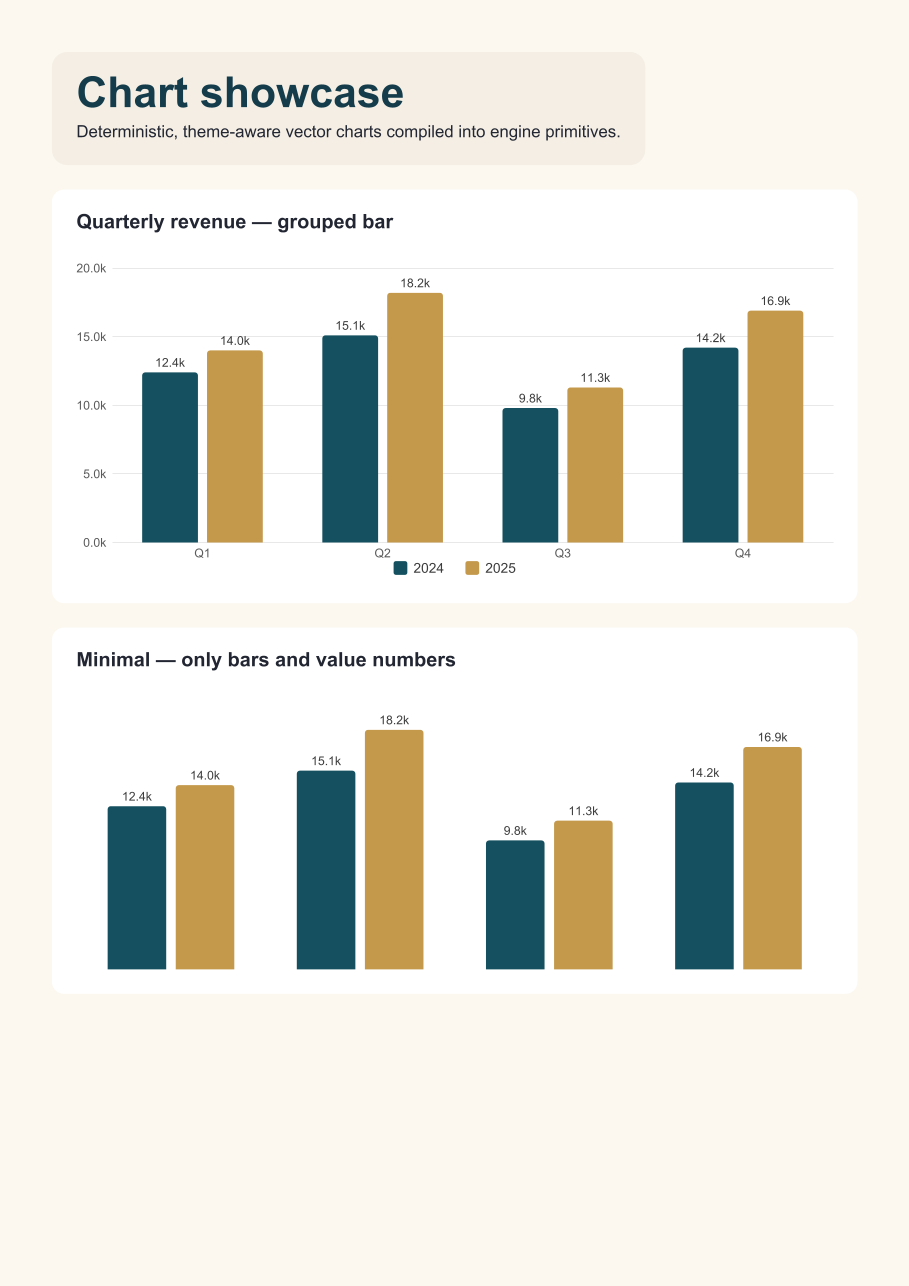
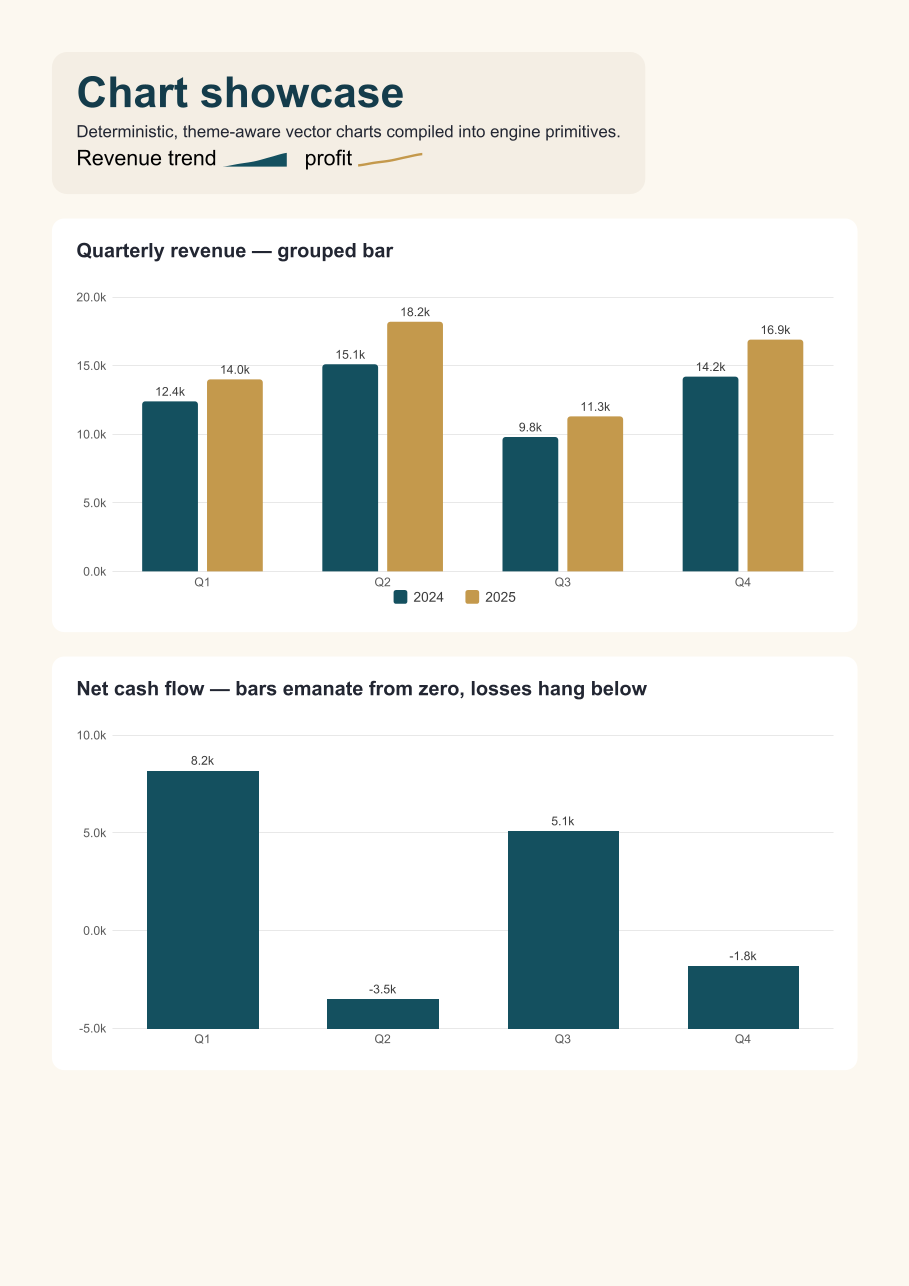
fix(charts): grouped bars emanate from the zero baseline
Grouped (non-stacked) bars measured their height from the axis nice-floor,
so on an axis that crossed zero a negative value rendered as a short upward
column anchored at the floor — visually indistinguishable from a small
positive — and positive bars overshot below zero.

BarChartLayout now anchors both orientations to the zero baseline (clamped
into the visible range via the new baselineValue helper): positive bars grow
away from zero, negatives hang back across it, and value labels sit past the
bar's far end. When zero is off-scale — an explicit non-zero valueAxis().min()
or baselineAtZero(false) over a range that excludes zero — the baseline clamps
to the nearest visible bound, so a deliberately zoomed axis still anchors its
bars at the plot floor. Charts with positive data on a zero-based axis are
byte-identical.

Tests: ChartLayoutResolverTest rewrites the negative grouped case to assert
the positive and negative bars meet at zero with heights proportional to
|value|, and adds horizontal and positive-min-clamp cases; ChartShowcaseExample
gains a mixed +/- net-cash-flow card. ./mvnw test -pl . green (1382).

diff --git a/src/main/java/com/demcha/compose/document/chart/BarChartLayout.java b/src/main/java/com/demcha/compose/document/chart/BarChartLayout.java
@@ -14,6 +14,15 @@ import static com.demcha.compose.document.chart.ChartLayoutSupport.*;
  * Geometry for vertical and horizontal bar charts, grouped or stacked, with
  * per-bar value labels and stacked-total labels.
  *
+ * <p>Grouped bars emanate from the zero baseline — positive values grow away
+ * from zero, negative values hang back across it — matching the standard
+ * bar-chart convention. When zero falls outside the visible range (an explicit
+ * non-zero {@code valueAxis().min(...)} or {@code baselineAtZero(false)} over a
+ * range that does not include zero), the baseline clamps to the nearest visible
+ * bound, so a deliberately zoomed axis still anchors its bars at the plot edge.
+ * Stacked bars always sum upward from a zero floor (see
+ * {@link ChartLayoutSupport#computeFrame}).
+ *
  * @author Artem Demchyshyn
  * @since 1.8.0
  */
@@ -100,12 +109,21 @@ final class BarChartLayout {
             } else {
                 double barW = groupW / sCount;
                 double innerBarW = Math.max(0.5, barW * INNER_BAR_RATIO);
+                // Grouped bars emanate from the zero baseline: positive values
+                // grow up, negative values hang down. When zero is off-scale
+                // (an explicit positive min, or baselineAtZero(false) over a
+                // non-zero range), the baseline clamps to the nearest visible
+                // bound, so a zoomed axis still anchors bars at the plot floor.
+                double baseValue = baselineValue(f.scale());
+                double baseY = f.yForValue(baseValue);
                 for (int s = 0; s < sCount; s++) {
                     Double v = data.series().get(s).values().get(c);
                     if (v == null) {
                         continue;
                     }
-                    double h = f.scale().fractionOf(v) * f.plotHeight();
+                    double valueY = f.yForValue(v);
+                    double yBottom = Math.min(baseY, valueY);
+                    double h = Math.abs(valueY - baseY);
                     if (h < MIN_BAR_HEIGHT) {
                         continue;
                     }
@@ -115,12 +133,16 @@ final class BarChartLayout {
                             new ShapeNode("bar_c" + c + "_s" + s, innerBarW, h, null, null,
                                     barRadius, null, null, DocumentInsets.zero(), DocumentInsets.zero(),
                                     null, paint),
-                            bx, f.plotBottomY(), innerBarW, h));
+                            bx, yBottom, innerBarW, h));
                     if (bar.valueLabels() == ValueLabelMode.OUTSIDE) {
                         String text = bar.valueAxis().format().format(v);
                         double labelW = Math.max(innerBarW, metrics.width(valueStyle, text) + 2.0);
+                        // Label above a positive bar's top, below a negative bar's bottom.
+                        double labelBottomY = v >= baseValue
+                                ? yBottom + h + labelGap
+                                : yBottom - labelGap - f.valueLineH();
                         emitChipLabel(out, "value_c" + c + "_s" + s, text, valueStyle, null,
-                                bx + innerBarW / 2.0, f.plotBottomY() + h + labelGap,
+                                bx + innerBarW / 2.0, labelBottomY,
                                 labelW, f.valueLineH());
                     }
                 }
@@ -287,12 +309,18 @@ final class BarChartLayout {
             } else {
                 double barH = groupH / sCount;
                 double innerBarH = Math.max(0.5, barH * INNER_BAR_RATIO);
+                // Bars emanate from the zero baseline (clamped to the visible
+                // range): positive values extend right, negative values left.
+                double baseValue = baselineValue(scale);
+                double baseX = plotLeftX + scale.fractionOf(baseValue) * plotW;
                 for (int s = 0; s < sCount; s++) {
                     Double v = data.series().get(s).values().get(c);
                     if (v == null) {
                         continue;
                     }
-                    double w = scale.fractionOf(v) * plotW;
+                    double valueX = plotLeftX + scale.fractionOf(v) * plotW;
+                    double xLeft = Math.min(baseX, valueX);
+                    double w = Math.abs(valueX - baseX);
                     if (w < MIN_BAR_HEIGHT) {
                         continue;
                     }
@@ -302,11 +330,16 @@ final class BarChartLayout {
                             new ShapeNode("bar_c" + c + "_s" + s, w, innerBarH, null, null,
                                     barRadius, null, null, DocumentInsets.zero(), DocumentInsets.zero(),
                                     null, paint),
-                            plotLeftX, barTop - innerBarH, w, innerBarH));
+                            xLeft, barTop - innerBarH, w, innerBarH));
                     if (bar.valueLabels() == ValueLabelMode.OUTSIDE) {
-                        emitEndLabel(out, "value_c" + c + "_s" + s, axis.format().format(v),
-                                valueStyle, null, plotLeftX + w + labelGap,
-                                barTop - innerBarH / 2.0 - valueInk, valueLineH, metrics);
+                        String text = axis.format().format(v);
+                        double labelW = Math.max(8.0, metrics.width(valueStyle, text) + 2.0);
+                        // Past the right end for positive, the left end for negative.
+                        double centerX = v >= baseValue
+                                ? xLeft + w + labelGap + labelW / 2.0
+                                : xLeft - labelGap - labelW / 2.0;
+                        emitChipLabel(out, "value_c" + c + "_s" + s, text, valueStyle, null,
+                                centerX, barTop - innerBarH / 2.0 - valueInk, labelW, valueLineH);
                     }
                 }
             }
@@ -321,6 +354,18 @@ final class BarChartLayout {
         ChartLayoutSupport.emitLegend(out, bar.legend(), reserve, legendEntries, style,
                 width, height, (plotBottomY + plotTopY) / 2.0, metrics);
         return out;
+    }
+
+    /**
+     * The value bars emanate from — zero, clamped into the visible axis range.
+     * With a normal zero-based axis this is exactly zero (bars sit on the
+     * floor); with an explicit non-zero min or {@code baselineAtZero(false)}
+     * that pushes zero off-scale, it clamps to the nearest visible bound so a
+     * zoomed axis anchors its bars at the plot edge instead of an invisible
+     * zero line.
+     */
+    private static double baselineValue(NiceScale scale) {
+        return Math.max(scale.niceMin(), Math.min(0.0, scale.niceMax()));
     }
 
     private static void emitEndLabel(List<ChartPrimitive> out, String name, String text,

diff --git a/src/test/java/com/demcha/compose/document/chart/ChartLayoutResolverTest.java b/src/test/java/com/demcha/compose/document/chart/ChartLayoutResolverTest.java
@@ -234,7 +234,7 @@ class ChartLayoutResolverTest {
     }
 
     @Test
-    void groupedBarsWithNegativeValuesMeasureFromTheNiceFloor() {
+    void groupedBarsEmanateFromZeroAndNegativesHangBelow() {
         ChartData data = ChartData.builder()
                 .categories("A", "B")
                 .series("S", 10.0, -2.0)
@@ -245,17 +245,62 @@ class ChartLayoutResolverTest {
                 bar, baseStyle(), ChartDefaults.DEFAULT_THEME, 200.0, 100.0, METRICS);
 
         // Domain [-2, 10] with the zero baseline rounds to the nice range
-        // [-5, 10]: the axis extends below zero and both bars anchor at the
-        // -5 floor, so the negative bar renders as a short positive-height
-        // column reaching its value level (no crash, no inverted geometry).
+    // [-5, 10]: the axis extends below zero. The positive bar grows up from
+        // the zero line; the negative bar hangs down across it. Both meet
+        // exactly at zero, and their heights are proportional to |value|.
         ChartPrimitive positive = byName(out, "bar_c0_s0");
         ChartPrimitive negative = byName(out, "bar_c1_s0");
-        assertThat(negative.y()).isEqualTo(positive.y());
-        // fractionOf(10) = 1.0 vs fractionOf(-2) = 0.2 over [-5, 10].
+        // Positive bar's bottom == negative bar's top == the zero line.
+        assertThat(positive.y()).isCloseTo(negative.y() + negative.height(), within(1e-9));
+        // The negative bar's body sits below where the positive one starts.
+        assertThat(negative.y()).isLessThan(positive.y());
+        // |−2| / |10| = 0.2.
         assertThat(negative.height()).isCloseTo(positive.height() * 0.2, within(1e-9));
         // The negative bound appears as a tick label.
         assertThat(out.stream().anyMatch(p -> p.node() instanceof ParagraphNode pn
                 && pn.name().startsWith("tick_") && "-5".equals(pn.text()))).isTrue();
+    }
+
+    @Test
+    void horizontalGroupedBarsEmanateFromZeroAndNegativesExtendLeft() {
+        ChartData data = ChartData.builder()
+                .categories("A", "B")
+                .series("S", 10.0, -2.0)
+                .build();
+        ChartSpec.Bar bar = ChartSpec.bar().data(data).horizontal(true).build();
+
+        List<ChartPrimitive> out = ChartLayoutResolver.resolve(
+                bar, baseStyle(), ChartDefaults.DEFAULT_THEME, 200.0, 100.0, METRICS);
+
+        ChartPrimitive positive = byName(out, "bar_c0_s0");
+        ChartPrimitive negative = byName(out, "bar_c1_s0");
+        // Positive bar starts at the zero line and runs right; the negative
+        // bar's right edge reaches the zero line and its body extends left.
+        assertThat(positive.x()).isCloseTo(negative.x() + negative.width(), within(1e-9));
+        assertThat(negative.x()).isLessThan(positive.x());
+        // Widths proportional to |value|: |−2| / |10| = 0.2.
+        assertThat(negative.width()).isCloseTo(positive.width() * 0.2, within(1e-9));
+    }
+
+    @Test
+    void groupedBarsWithAPositiveAxisMinAnchorAtThePlotFloor() {
+        // Zero is off-scale below an explicit positive min, so bars anchor at
+        // the visible floor (the standard "zoomed axis" reading) rather than an
+        // invisible zero line — the deliberate, tested behaviour for a min set.
+        ChartData data = ChartData.builder()
+                .categories("A", "B").series("S", 60.0, 80.0).build();
+        ChartSpec.Bar bar = ChartSpec.bar().data(data)
+                .valueAxis(AxisSpec.builder().min(50.0).build())
+                .build();
+
+        List<ChartPrimitive> out = ChartLayoutResolver.resolve(
+                bar, baseStyle(), ChartDefaults.DEFAULT_THEME, 200.0, 100.0, METRICS);
+
+        ChartPrimitive barA = byName(out, "bar_c0_s0");
+        ChartPrimitive barB = byName(out, "bar_c1_s0");
+        // Both bars share the floor baseline; the larger value is taller.
+        assertThat(barA.y()).isEqualTo(barB.y());
+        assertThat(barB.height()).isGreaterThan(barA.height());
     }
 
     @Test

diff --git a/examples/src/main/java/com/demcha/examples/features/charts/ChartShowcaseExample.java b/examples/src/main/java/com/demcha/examples/features/charts/ChartShowcaseExample.java
@@ -68,6 +68,27 @@ public final class ChartShowcaseExample {
                 .barCornerRadius(DocumentCornerRadius.top(2))
                 .build();
 
+        // Mixed positive / negative: bars emanate from the zero baseline, so a
+        // loss grows downward across zero instead of reading as a short upward
+        // stub. The axis extends below zero to make room for the negative bars.
+        ChartData netFlow = ChartData.builder()
+                .categories("Q1", "Q2", "Q3", "Q4")
+                .series("Net cash flow", 8.2, -3.5, 5.1, -1.8)
+                .build();
+
+        ChartSpec varianceSpec = ChartSpec.bar()
+                .data(netFlow)
+                .valueAxis(AxisSpec.builder()
+                        .format(NumberFormatSpec.pattern("#,##0.0").withSuffix("k"))
+                        .build())
+                .valueLabels(ValueLabelMode.OUTSIDE)
+                .size(ChartSize.aspectRatio(16, 7))
+                .build();
+
+        ChartStyle varianceStyle = ChartStyle.builder()
+                .seriesPaint(0, DocumentPaint.solid(DocumentColor.rgb(20, 80, 95)))
+                .build();
+
         // Minimal chart: no grid, no axis tick labels, no category labels —
         // only the bars and their value numbers (e.g. 12.4k).
         ChartSpec minimalSpec = ChartSpec.bar()
@@ -179,6 +200,15 @@ public final class ChartShowcaseExample {
                                     .textStyle(THEME.text().h3())
                                     .margin(DocumentInsets.zero()))
                             .chart(barSpec, barStyle))
+                    .addSection("VarianceCard", section -> section
+                            .keepTogether()
+                            .softPanel(DocumentColor.WHITE, 8, 16)
+                            .spacing(10)
+                            .addParagraph(p -> p
+                                    .text("Net cash flow — bars emanate from zero, losses hang below")
+                                    .textStyle(THEME.text().h3())
+                                    .margin(DocumentInsets.zero()))
+                            .chart(varianceSpec, varianceStyle))
                     .addSection("MinimalCard", section -> section
                             .keepTogether()
                             .softPanel(DocumentColor.WHITE, 8, 16)

diff --git a/CHANGELOG.md b/CHANGELOG.md
@@ -242,6 +242,17 @@ Entries land here as they merge.
   total and ran past the plot top. The stacked floor is now pinned to zero
   (parts summing to a whole), independent of the requested minimum. Grouped
   bars still honour an explicit minimum.
+- **Grouped bars emanate from the zero baseline.** A grouped (non-stacked) bar
+  measured its height from the axis nice-floor, so on an axis that crossed zero
+  a negative value rendered as a short upward column anchored at the floor —
+  visually indistinguishable from a small positive value — and positive bars
+  overshot below zero. Grouped bars now grow from the zero line (positive up,
+  negative hanging below it), matching the standard bar-chart convention and
+  the stacked-bar behaviour. When zero is off-scale — an explicit non-zero
+  `valueAxis().min(...)` or `baselineAtZero(false)` over a range that excludes
+  zero — the baseline clamps to the nearest visible bound, so a deliberately
+  zoomed axis still anchors its bars at the plot floor. Charts with positive
+  data on a zero-based axis are byte-identical.
 - **`ChartStyle.paintForSeries` rejects a negative series index** with a
   value-naming `IllegalArgumentException` instead of leaking a bare
   `IndexOutOfBoundsException` from the palette modulo.
@@ -432,10 +443,13 @@ Entries land here as they merge.
   two spaces per depth, per-depth custom markers survive, lists inside
   sections export, empty lists are a no-op. Pagination: a keep-together
   section taller than a full page still flows instead of relocating. Charts:
-  negative bar values extend the axis below zero and measure from the nice
-  floor, stacked bars skip non-positive segments, a one-point smooth/area
-  line keeps its marker and label, long category labels stay slot-sized,
-  tight-width legends keep every entry, all-negative `NiceScale` ranges.
+  negative grouped bars extend the axis below zero and hang from the zero
+  baseline (positive and negative bars meet at zero, heights proportional to
+  `|value|`), an explicit positive axis minimum anchors grouped bars at the
+  visible floor, stacked bars skip non-positive segments, a one-point
+  smooth/area line keeps its marker and label, long category labels stay
+  slot-sized, tight-width legends keep every entry, all-negative `NiceScale`
+  ranges.
 
 ## v1.7.1 — 2026-06-09
 
